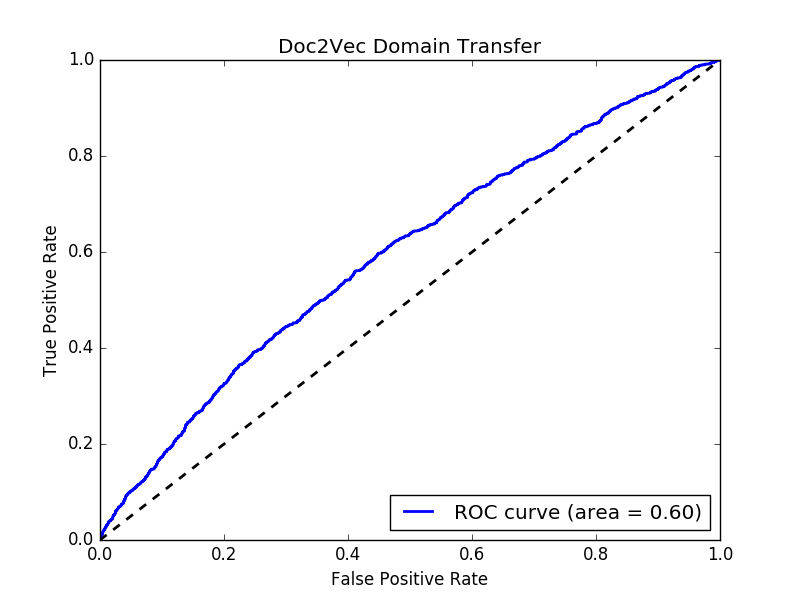
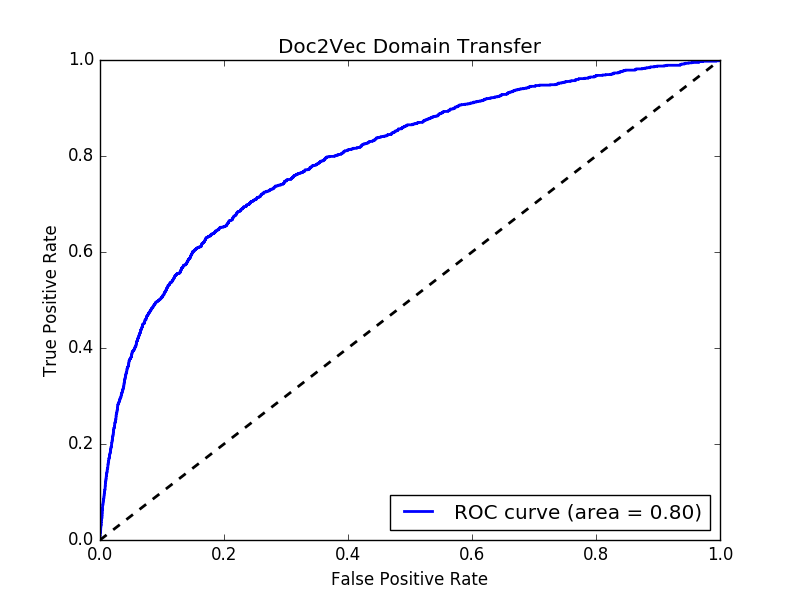
doc2vec working

diff --git a/src/domain_transfer_doc2vec.py b/src/domain_transfer_doc2vec.py
@@ -35,8 +35,7 @@ def step_decay(epoch):
     return lr_new
 
 def read_corpus(data_frame, tokens_only=False):
-    for row_idx in tqdm(range(1000)):
-    #for row_idx in tqdm(range(data_frame.shape[0])):
+    for row_idx in tqdm(range(data_frame.shape[0])):
         title = data_frame.loc[row_idx, 'title']
         body = data_frame.loc[row_idx, 'body']
         line = title + " " + body
@@ -46,7 +45,7 @@ def read_corpus(data_frame, tokens_only=False):
         else:
             yield gensim.models.doc2vec.TaggedDocument(
                   gensim.utils.simple_preprocess(line),[row_idx])
-     #end for
+    #end for
 
 #load data
 print "loading data..."
